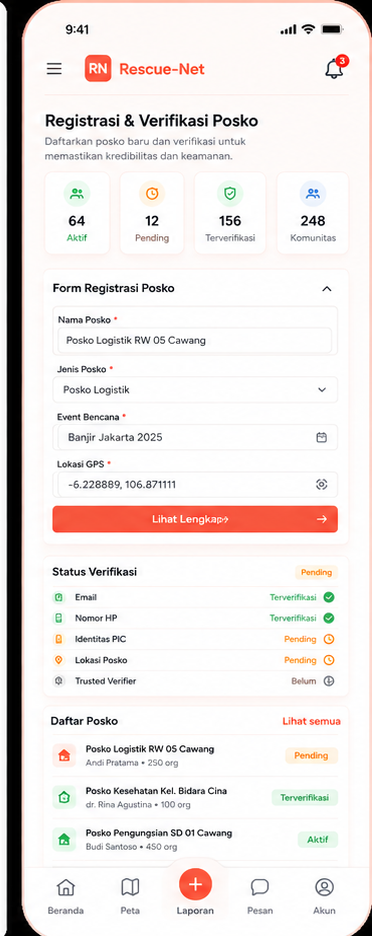
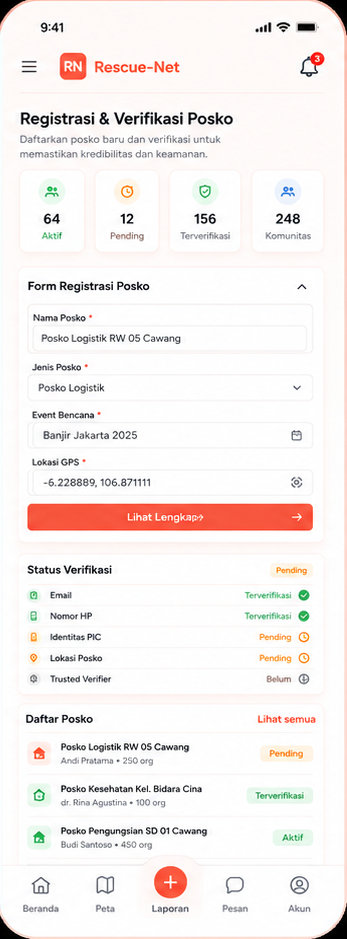
Mock up HP: 11 HP berbingkai hitam dipotong ke layar saja (seragam, tanpa pita bingkai)

Changed region(s): [[0.0, 0.0, 1.0, 1.0], [0.7493, 0.0, 1.0, 0.0929], [0.7781, 0.1859, 0.8934, 0.2788]]

diff --git a/assets/js/mockup.js b/assets/js/mockup.js
@@ -26,7 +26,7 @@ const MOCKUP_ITEMS = [
   // only the phone portion. "mobile" is already an HP-only compilation.
   hpImage: key === "mobile"
     ? `../assets/img/mockup/${file}`
-    : `../assets/img/mockup/hp/${file}?v=crop-20261019b`,   // re-cropped per image (phone frame only)
+    : `../assets/img/mockup/hp/${file}?v=crop-20261019c`,   // re-cropped per image (phone frame only)
   file
 }));
 

diff --git a/pages/mockup.html b/pages/mockup.html
@@ -367,7 +367,7 @@
   </main>
 </div>
 
-<script src="../assets/js/mockup.js?v=crop-20261019b"></script>
+<script src="../assets/js/mockup.js?v=crop-20261019c"></script>
 <script src="../assets/js/rn-public-header.js?v=installapp-20260926"></script>
 <script src="../assets/js/rn-layout-mode.js?v=noscrollbar-20260905"></script>
 <script src="../assets/js/rn-pwa.js?v=pwa-20260926b"></script>
